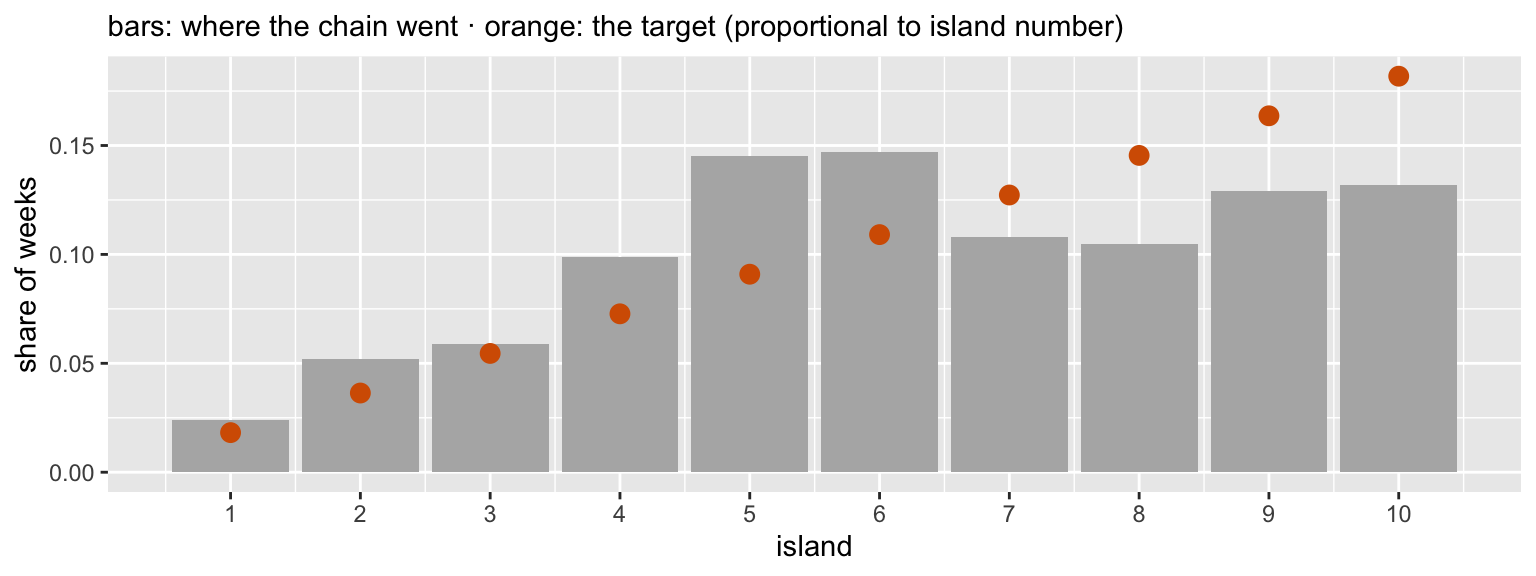
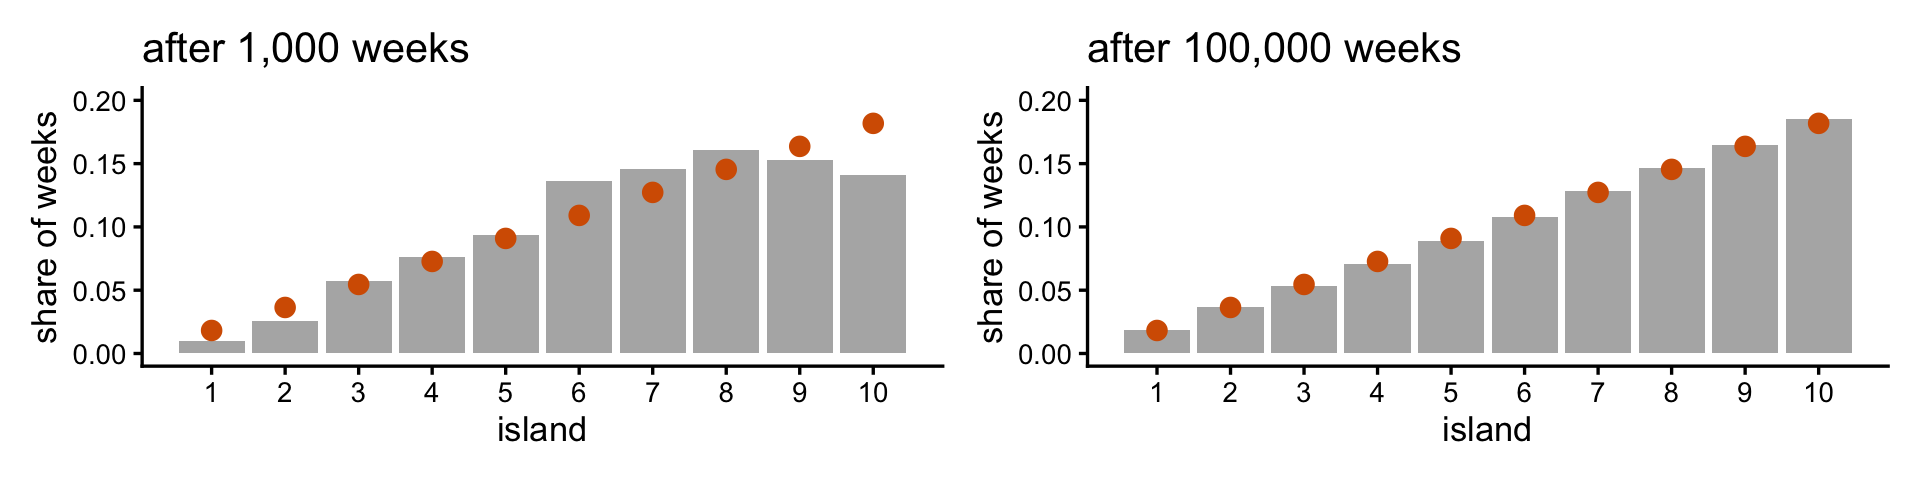
Lecture 5: King Markov visit shares shown after 1,000 vs 100,000 weeks (the short run misses the target; the long run matches), seeded; islands framed as values of theta with population as height

diff --git a/_site/mcmc-5.html b/_site/mcmc-5.html
@@ -443,67 +443,92 @@
 </section>
 <section id="metropolis-in-15-lines" class="slide level2 smaller">
 <h2>Metropolis in 15 lines</h2>
-<p>The hiker’s rule on the smallest possible landscape. McElreath’s King Markov (SR 9.1): 10 islands in a ring, island <em>k</em> has population proportional to <em>k</em>, and the king wants to visit each island in proportion to its population. Each week he flips a coin to propose a neighbor and moves with probability (proposal population / current population). Here the “posterior” is just the island number.</p>
+<p>The hiker’s rule on the smallest possible landscape. McElreath’s King Markov (SR 9.1): 10 islands in a ring, island <em>k</em> has population proportional to <em>k</em>, and the king wants to visit each island in proportion to its population. Each week he flips a coin to propose a neighbor and moves with probability (proposal population / current population). The islands are the possible values of θ; population is the height (likelihood × prior).</p>
 <div class="cell">
 <details class="code-fold">
 <summary>Code</summary>
-<div class="code-copy-outer-scaffold"><div class="sourceCode cell-code" id="cb3"><pre class="sourceCode numberSource r number-lines code-with-copy"><code class="sourceCode r"><span id="cb3-1"><a aria-label="1"></a>num <span class="ot">&lt;-</span> <span class="dv">1000</span></span>
-<span id="cb3-2"><a aria-label="2"></a>positions <span class="ot">&lt;-</span> <span class="fu">rep</span>(<span class="dv">0</span>, num) </span>
-<span id="cb3-3"><a aria-label="3"></a>current   <span class="ot">&lt;-</span> <span class="dv">10</span></span>
-<span id="cb3-4"><a aria-label="4"></a></span>
-<span id="cb3-5"><a aria-label="5"></a><span class="cf">for</span> (i <span class="cf">in</span> <span class="dv">1</span><span class="sc">:</span>num) {</span>
-<span id="cb3-6"><a aria-label="6"></a>  </span>
-<span id="cb3-7"><a aria-label="7"></a>  <span class="co"># record current position </span></span>
-<span id="cb3-8"><a aria-label="8"></a>  positions[i] <span class="ot">&lt;-</span> current</span>
-<span id="cb3-9"><a aria-label="9"></a>  <span class="co"># flip a coin to propose a neighboring island</span></span>
-<span id="cb3-10"><a aria-label="10"></a>  proposal <span class="ot">&lt;-</span> current <span class="sc">+</span> <span class="fu">sample</span>(<span class="fu">c</span>(<span class="sc">-</span><span class="dv">1</span>, <span class="dv">1</span>), <span class="at">size =</span> <span class="dv">1</span>)</span>
-<span id="cb3-11"><a aria-label="11"></a>  <span class="co"># the islands form a ring: 1 and 10 are neighbors</span></span>
-<span id="cb3-12"><a aria-label="12"></a>  <span class="cf">if</span> (proposal <span class="sc">&lt;</span> <span class="dv">1</span>) proposal <span class="ot">&lt;-</span> <span class="dv">10</span></span>
-<span id="cb3-13"><a aria-label="13"></a>  <span class="cf">if</span> (proposal <span class="sc">&gt;</span> <span class="dv">10</span>) proposal <span class="ot">&lt;-</span> <span class="dv">1</span></span>
-<span id="cb3-14"><a aria-label="14"></a>  <span class="co"># move with probability proposal / current (always move "uphill")</span></span>
-<span id="cb3-15"><a aria-label="15"></a>  prob_move <span class="ot">&lt;-</span> proposal<span class="sc">/</span>current</span>
-<span id="cb3-16"><a aria-label="16"></a>  current <span class="ot">&lt;-</span> <span class="fu">ifelse</span>(<span class="fu">runif</span>(<span class="dv">1</span>) <span class="sc">&lt;</span> prob_move, proposal, current)</span>
-<span id="cb3-17"><a aria-label="17"></a>  </span>
-<span id="cb3-18"><a aria-label="18"></a>}  </span>
-<span id="cb3-19"><a aria-label="19"></a></span>
-<span id="cb3-20"><a aria-label="20"></a><span class="fu">library</span>(tidyverse)</span>
-<span id="cb3-21"><a aria-label="21"></a></span>
-<span id="cb3-22"><a aria-label="22"></a><span class="fu">tibble</span>(<span class="at">week   =</span> <span class="dv">1</span><span class="sc">:</span><span class="dv">1000</span>,</span>
-<span id="cb3-23"><a aria-label="23"></a>       <span class="at">iteration =</span> positions) <span class="sc">%&gt;%</span></span>
-<span id="cb3-24"><a aria-label="24"></a>  <span class="fu">ggplot</span>(<span class="fu">aes</span>(<span class="at">x =</span> week, <span class="at">y =</span> iteration)) <span class="sc">+</span></span>
-<span id="cb3-25"><a aria-label="25"></a>  <span class="fu">geom_point</span>(<span class="at">shape =</span> <span class="dv">1</span>) <span class="sc">+</span></span>
-<span id="cb3-26"><a aria-label="26"></a>  <span class="fu">scale_x_continuous</span>(<span class="at">breaks =</span> <span class="fu">seq</span>(<span class="at">from =</span> <span class="dv">0</span>, <span class="at">to =</span> <span class="dv">1000</span>, <span class="at">by =</span> <span class="dv">100</span>)) <span class="sc">+</span></span>
-<span id="cb3-27"><a aria-label="27"></a>  <span class="fu">scale_y_continuous</span>(<span class="at">limits =</span> <span class="fu">c</span>(<span class="sc">-</span><span class="dv">2</span>, <span class="dv">13</span>), <span class="at">breaks =</span> <span class="fu">seq</span>(<span class="at">from =</span> <span class="sc">-</span><span class="dv">2</span>, <span class="at">to =</span> <span class="dv">15</span>, <span class="at">by =</span> <span class="dv">2</span>)) <span class="sc">+</span></span>
-<span id="cb3-28"><a aria-label="28"></a>  <span class="fu">coord_cartesian</span>(<span class="at">xlim =</span> <span class="fu">c</span>(<span class="dv">0</span>, <span class="dv">1000</span>)) <span class="sc">+</span></span>
-<span id="cb3-29"><a aria-label="29"></a>  <span class="fu">labs</span>(<span class="at">title =</span> <span class="st">"The king's path: one island per week"</span>) <span class="sc">+</span></span>
-<span id="cb3-30"><a aria-label="30"></a>  <span class="fu">xlab</span>(<span class="st">"week (iteration)"</span>) <span class="sc">+</span> <span class="fu">ylab</span>(<span class="st">"island"</span>)</span></code></pre></div><button title="Copy to Clipboard" class="code-copy-button"><i class="bi"></i></button></div>
+<div class="code-copy-outer-scaffold"><div class="sourceCode cell-code" id="cb3"><pre class="sourceCode numberSource r number-lines code-with-copy"><code class="sourceCode r"><span id="cb3-1"><a aria-label="1"></a><span class="fu">set.seed</span>(<span class="dv">9</span>)</span>
+<span id="cb3-2"><a aria-label="2"></a>num <span class="ot">&lt;-</span> <span class="dv">1000</span></span>
+<span id="cb3-3"><a aria-label="3"></a>positions <span class="ot">&lt;-</span> <span class="fu">rep</span>(<span class="dv">0</span>, num) </span>
+<span id="cb3-4"><a aria-label="4"></a>current   <span class="ot">&lt;-</span> <span class="dv">10</span></span>
+<span id="cb3-5"><a aria-label="5"></a></span>
+<span id="cb3-6"><a aria-label="6"></a><span class="cf">for</span> (i <span class="cf">in</span> <span class="dv">1</span><span class="sc">:</span>num) {</span>
+<span id="cb3-7"><a aria-label="7"></a>  </span>
+<span id="cb3-8"><a aria-label="8"></a>  <span class="co"># record current position </span></span>
+<span id="cb3-9"><a aria-label="9"></a>  positions[i] <span class="ot">&lt;-</span> current</span>
+<span id="cb3-10"><a aria-label="10"></a>  <span class="co"># flip a coin to propose a neighboring island</span></span>
+<span id="cb3-11"><a aria-label="11"></a>  proposal <span class="ot">&lt;-</span> current <span class="sc">+</span> <span class="fu">sample</span>(<span class="fu">c</span>(<span class="sc">-</span><span class="dv">1</span>, <span class="dv">1</span>), <span class="at">size =</span> <span class="dv">1</span>)</span>
+<span id="cb3-12"><a aria-label="12"></a>  <span class="co"># the islands form a ring: 1 and 10 are neighbors</span></span>
+<span id="cb3-13"><a aria-label="13"></a>  <span class="cf">if</span> (proposal <span class="sc">&lt;</span> <span class="dv">1</span>) proposal <span class="ot">&lt;-</span> <span class="dv">10</span></span>
+<span id="cb3-14"><a aria-label="14"></a>  <span class="cf">if</span> (proposal <span class="sc">&gt;</span> <span class="dv">10</span>) proposal <span class="ot">&lt;-</span> <span class="dv">1</span></span>
+<span id="cb3-15"><a aria-label="15"></a>  <span class="co"># move with probability proposal / current (always move "uphill")</span></span>
+<span id="cb3-16"><a aria-label="16"></a>  prob_move <span class="ot">&lt;-</span> proposal<span class="sc">/</span>current</span>
+<span id="cb3-17"><a aria-label="17"></a>  current <span class="ot">&lt;-</span> <span class="fu">ifelse</span>(<span class="fu">runif</span>(<span class="dv">1</span>) <span class="sc">&lt;</span> prob_move, proposal, current)</span>
+<span id="cb3-18"><a aria-label="18"></a>  </span>
+<span id="cb3-19"><a aria-label="19"></a>}  </span>
+<span id="cb3-20"><a aria-label="20"></a></span>
+<span id="cb3-21"><a aria-label="21"></a><span class="fu">library</span>(tidyverse)</span>
+<span id="cb3-22"><a aria-label="22"></a></span>
+<span id="cb3-23"><a aria-label="23"></a><span class="fu">tibble</span>(<span class="at">week   =</span> <span class="dv">1</span><span class="sc">:</span><span class="dv">1000</span>,</span>
+<span id="cb3-24"><a aria-label="24"></a>       <span class="at">iteration =</span> positions) <span class="sc">%&gt;%</span></span>
+<span id="cb3-25"><a aria-label="25"></a>  <span class="fu">ggplot</span>(<span class="fu">aes</span>(<span class="at">x =</span> week, <span class="at">y =</span> iteration)) <span class="sc">+</span></span>
+<span id="cb3-26"><a aria-label="26"></a>  <span class="fu">geom_point</span>(<span class="at">shape =</span> <span class="dv">1</span>) <span class="sc">+</span></span>
+<span id="cb3-27"><a aria-label="27"></a>  <span class="fu">scale_x_continuous</span>(<span class="at">breaks =</span> <span class="fu">seq</span>(<span class="at">from =</span> <span class="dv">0</span>, <span class="at">to =</span> <span class="dv">1000</span>, <span class="at">by =</span> <span class="dv">100</span>)) <span class="sc">+</span></span>
+<span id="cb3-28"><a aria-label="28"></a>  <span class="fu">scale_y_continuous</span>(<span class="at">limits =</span> <span class="fu">c</span>(<span class="sc">-</span><span class="dv">2</span>, <span class="dv">13</span>), <span class="at">breaks =</span> <span class="fu">seq</span>(<span class="at">from =</span> <span class="sc">-</span><span class="dv">2</span>, <span class="at">to =</span> <span class="dv">15</span>, <span class="at">by =</span> <span class="dv">2</span>)) <span class="sc">+</span></span>
+<span id="cb3-29"><a aria-label="29"></a>  <span class="fu">coord_cartesian</span>(<span class="at">xlim =</span> <span class="fu">c</span>(<span class="dv">0</span>, <span class="dv">1000</span>)) <span class="sc">+</span></span>
+<span id="cb3-30"><a aria-label="30"></a>  <span class="fu">labs</span>(<span class="at">title =</span> <span class="st">"The king's path: one island per week"</span>) <span class="sc">+</span></span>
+<span id="cb3-31"><a aria-label="31"></a>  <span class="fu">xlab</span>(<span class="st">"week (iteration)"</span>) <span class="sc">+</span> <span class="fu">ylab</span>(<span class="st">"island"</span>)</span></code></pre></div><button title="Copy to Clipboard" class="code-copy-button"><i class="bi"></i></button></div>
 </details>
 
 </div>
 <img data-src="mcmc-5_files/figure-revealjs/unnamed-chunk-3-1.png" width="960" class="r-stretch"></section>
-<section id="where-the-chain-spent-its-time" class="slide level2 smaller nostretch">
-<h2>Where the chain spent its time</h2>
+<section id="did-the-king-hit-his-target" class="slide level2 smaller nostretch">
+<h2>Did the king hit his target?</h2>
+<p>Orange: the target. Island 10 has 10× the people of island 1, so it should get 10× the weeks (18% vs 2%). Grey: the share of weeks the king actually spent there.</p>
 <div class="cell">
 <details class="code-fold">
 <summary>Code</summary>
-<div class="code-copy-outer-scaffold"><div class="sourceCode cell-code" id="cb4"><pre class="sourceCode numberSource r number-lines code-with-copy"><code class="sourceCode r"><span id="cb4-1"><a aria-label="1"></a><span class="fu">tibble</span>(<span class="at">island =</span> positions) <span class="sc">%&gt;%</span></span>
-<span id="cb4-2"><a aria-label="2"></a>  <span class="fu">count</span>(island) <span class="sc">%&gt;%</span></span>
-<span id="cb4-3"><a aria-label="3"></a>  <span class="fu">mutate</span>(<span class="at">share =</span> n <span class="sc">/</span> <span class="fu">sum</span>(n), <span class="at">target =</span> island <span class="sc">/</span> <span class="fu">sum</span>(<span class="dv">1</span><span class="sc">:</span><span class="dv">10</span>)) <span class="sc">%&gt;%</span></span>
-<span id="cb4-4"><a aria-label="4"></a>  <span class="fu">ggplot</span>(<span class="fu">aes</span>(<span class="at">x =</span> island)) <span class="sc">+</span></span>
-<span id="cb4-5"><a aria-label="5"></a>  <span class="fu">geom_col</span>(<span class="fu">aes</span>(<span class="at">y =</span> share), <span class="at">fill =</span> <span class="st">"grey70"</span>) <span class="sc">+</span></span>
-<span id="cb4-6"><a aria-label="6"></a>  <span class="fu">geom_point</span>(<span class="fu">aes</span>(<span class="at">y =</span> target), <span class="at">colour =</span> <span class="st">"#D55E00"</span>, <span class="at">size =</span> <span class="dv">3</span>) <span class="sc">+</span></span>
-<span id="cb4-7"><a aria-label="7"></a>  <span class="fu">scale_x_continuous</span>(<span class="at">breaks =</span> <span class="dv">1</span><span class="sc">:</span><span class="dv">10</span>) <span class="sc">+</span></span>
-<span id="cb4-8"><a aria-label="8"></a>  <span class="fu">labs</span>(<span class="at">y =</span> <span class="st">"share of weeks"</span>, <span class="at">subtitle =</span> <span class="st">"bars: where the chain went · orange: the target (proportional to island number)"</span>)</span></code></pre></div><button title="Copy to Clipboard" class="code-copy-button"><i class="bi"></i></button></div>
+<div class="code-copy-outer-scaffold"><div class="sourceCode cell-code" id="cb4"><pre class="sourceCode numberSource r number-lines code-with-copy"><code class="sourceCode r"><span id="cb4-1"><a aria-label="1"></a><span class="fu">library</span>(patchwork)</span>
+<span id="cb4-2"><a aria-label="2"></a><span class="co"># the same rule, run for 100,000 weeks</span></span>
+<span id="cb4-3"><a aria-label="3"></a>run_king <span class="ot">&lt;-</span> <span class="cf">function</span>(num, <span class="at">start =</span> <span class="dv">10</span>) {</span>
+<span id="cb4-4"><a aria-label="4"></a>  positions <span class="ot">&lt;-</span> <span class="fu">rep</span>(<span class="dv">0</span>, num); current <span class="ot">&lt;-</span> start</span>
+<span id="cb4-5"><a aria-label="5"></a>  <span class="cf">for</span> (i <span class="cf">in</span> <span class="dv">1</span><span class="sc">:</span>num) {</span>
+<span id="cb4-6"><a aria-label="6"></a>    positions[i] <span class="ot">&lt;-</span> current</span>
+<span id="cb4-7"><a aria-label="7"></a>    proposal <span class="ot">&lt;-</span> current <span class="sc">+</span> <span class="fu">sample</span>(<span class="fu">c</span>(<span class="sc">-</span><span class="dv">1</span>, <span class="dv">1</span>), <span class="at">size =</span> <span class="dv">1</span>)</span>
+<span id="cb4-8"><a aria-label="8"></a>    <span class="cf">if</span> (proposal <span class="sc">&lt;</span> <span class="dv">1</span>) proposal <span class="ot">&lt;-</span> <span class="dv">10</span></span>
+<span id="cb4-9"><a aria-label="9"></a>    <span class="cf">if</span> (proposal <span class="sc">&gt;</span> <span class="dv">10</span>) proposal <span class="ot">&lt;-</span> <span class="dv">1</span></span>
+<span id="cb4-10"><a aria-label="10"></a>    current <span class="ot">&lt;-</span> <span class="fu">ifelse</span>(<span class="fu">runif</span>(<span class="dv">1</span>) <span class="sc">&lt;</span> proposal <span class="sc">/</span> current, proposal, current)</span>
+<span id="cb4-11"><a aria-label="11"></a>  }</span>
+<span id="cb4-12"><a aria-label="12"></a>  positions</span>
+<span id="cb4-13"><a aria-label="13"></a>}</span>
+<span id="cb4-14"><a aria-label="14"></a>positions_long <span class="ot">&lt;-</span> <span class="fu">run_king</span>(<span class="fl">1e5</span>)</span>
+<span id="cb4-15"><a aria-label="15"></a></span>
+<span id="cb4-16"><a aria-label="16"></a>visit_plot <span class="ot">&lt;-</span> <span class="cf">function</span>(pos, title) {</span>
+<span id="cb4-17"><a aria-label="17"></a>  <span class="fu">tibble</span>(<span class="at">island =</span> pos) <span class="sc">%&gt;%</span></span>
+<span id="cb4-18"><a aria-label="18"></a>    <span class="fu">count</span>(island) <span class="sc">%&gt;%</span></span>
+<span id="cb4-19"><a aria-label="19"></a>    <span class="fu">mutate</span>(<span class="at">share =</span> n <span class="sc">/</span> <span class="fu">sum</span>(n), <span class="at">target =</span> island <span class="sc">/</span> <span class="fu">sum</span>(<span class="dv">1</span><span class="sc">:</span><span class="dv">10</span>)) <span class="sc">%&gt;%</span></span>
+<span id="cb4-20"><a aria-label="20"></a>    <span class="fu">ggplot</span>(<span class="fu">aes</span>(<span class="at">x =</span> island)) <span class="sc">+</span></span>
+<span id="cb4-21"><a aria-label="21"></a>    <span class="fu">geom_col</span>(<span class="fu">aes</span>(<span class="at">y =</span> share), <span class="at">fill =</span> <span class="st">"grey70"</span>) <span class="sc">+</span></span>
+<span id="cb4-22"><a aria-label="22"></a>    <span class="fu">geom_point</span>(<span class="fu">aes</span>(<span class="at">y =</span> target), <span class="at">colour =</span> <span class="st">"#D55E00"</span>, <span class="at">size =</span> <span class="dv">3</span>) <span class="sc">+</span></span>
+<span id="cb4-23"><a aria-label="23"></a>    <span class="fu">scale_x_continuous</span>(<span class="at">breaks =</span> <span class="dv">1</span><span class="sc">:</span><span class="dv">10</span>) <span class="sc">+</span></span>
+<span id="cb4-24"><a aria-label="24"></a>    <span class="fu">coord_cartesian</span>(<span class="at">ylim =</span> <span class="fu">c</span>(<span class="dv">0</span>, .<span class="dv">2</span>)) <span class="sc">+</span></span>
+<span id="cb4-25"><a aria-label="25"></a>    <span class="fu">labs</span>(<span class="at">y =</span> <span class="st">"share of weeks"</span>, <span class="at">title =</span> title) <span class="sc">+</span></span>
+<span id="cb4-26"><a aria-label="26"></a>    <span class="fu">theme_classic</span>(<span class="at">base_size =</span> <span class="dv">13</span>)</span>
+<span id="cb4-27"><a aria-label="27"></a>}</span>
+<span id="cb4-28"><a aria-label="28"></a><span class="fu">visit_plot</span>(positions, <span class="st">"after 1,000 weeks"</span>) <span class="sc">|</span> <span class="fu">visit_plot</span>(positions_long, <span class="st">"after 100,000 weeks"</span>)</span></code></pre></div><button title="Copy to Clipboard" class="code-copy-button"><i class="bi"></i></button></div>
 </details>
 <div class="cell-output-display">
 <div>
 <figure>
-<p><img data-src="mcmc-5_files/figure-revealjs/unnamed-chunk-4-1.png" style="width:90.0%"></p>
+<p><img data-src="mcmc-5_files/figure-revealjs/unnamed-chunk-4-1.png" style="width:92.0%"></p>
 </figure>
 </div>
 </div>
 </div>
-<p>The king never computed the target distribution; he only compared neighbors. In the long run, the chain visits each island in proportion to its population.</p>
+<ul>
+<li><strong>1,000 weeks:</strong> rough. Moving one island at a time, he lingers in a neighborhood, so a short run over- or under-counts whole stretches of islands</li>
+<li><strong>100,000 weeks:</strong> right on target, though he never computed those percentages; he only compared neighbors</li>
+</ul>
 </section>
 <section id="metropolis-on-a-real-posterior" class="slide level2 smaller">
 <h2>Metropolis on a real posterior</h2>
